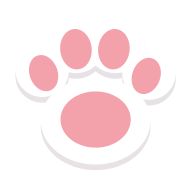
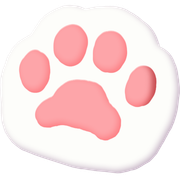
파비콘: 픽셀파우 원본 발바닥(pow-header.png)으로 교체
- GamePalette-Mobile/assets/pow-header.png 원본을 받아 파비콘으로 사용
- favicon.png(512) + favicon-32.png(32) + apple-touch-icon.png(180) 갱신
- 기존 SVG 재현본(favicon.svg) 제거, head의 svg 링크를 png 링크로 교체

diff --git a/index.html b/index.html
@@ -4,8 +4,8 @@
     <meta charset="UTF-8">
     <meta name="viewport" content="width=device-width, initial-scale=1.0">
     <title>김소연 - Portfolio</title>
-    <link rel="icon" type="image/svg+xml" href="favicon.svg">
     <link rel="icon" type="image/png" sizes="32x32" href="favicon-32.png">
+    <link rel="icon" type="image/png" sizes="512x512" href="favicon.png">
     <link rel="apple-touch-icon" href="apple-touch-icon.png">
     <link rel="preconnect" href="https://fonts.googleapis.com">
     <link rel="preconnect" href="https://fonts.gstatic.com" crossorigin>